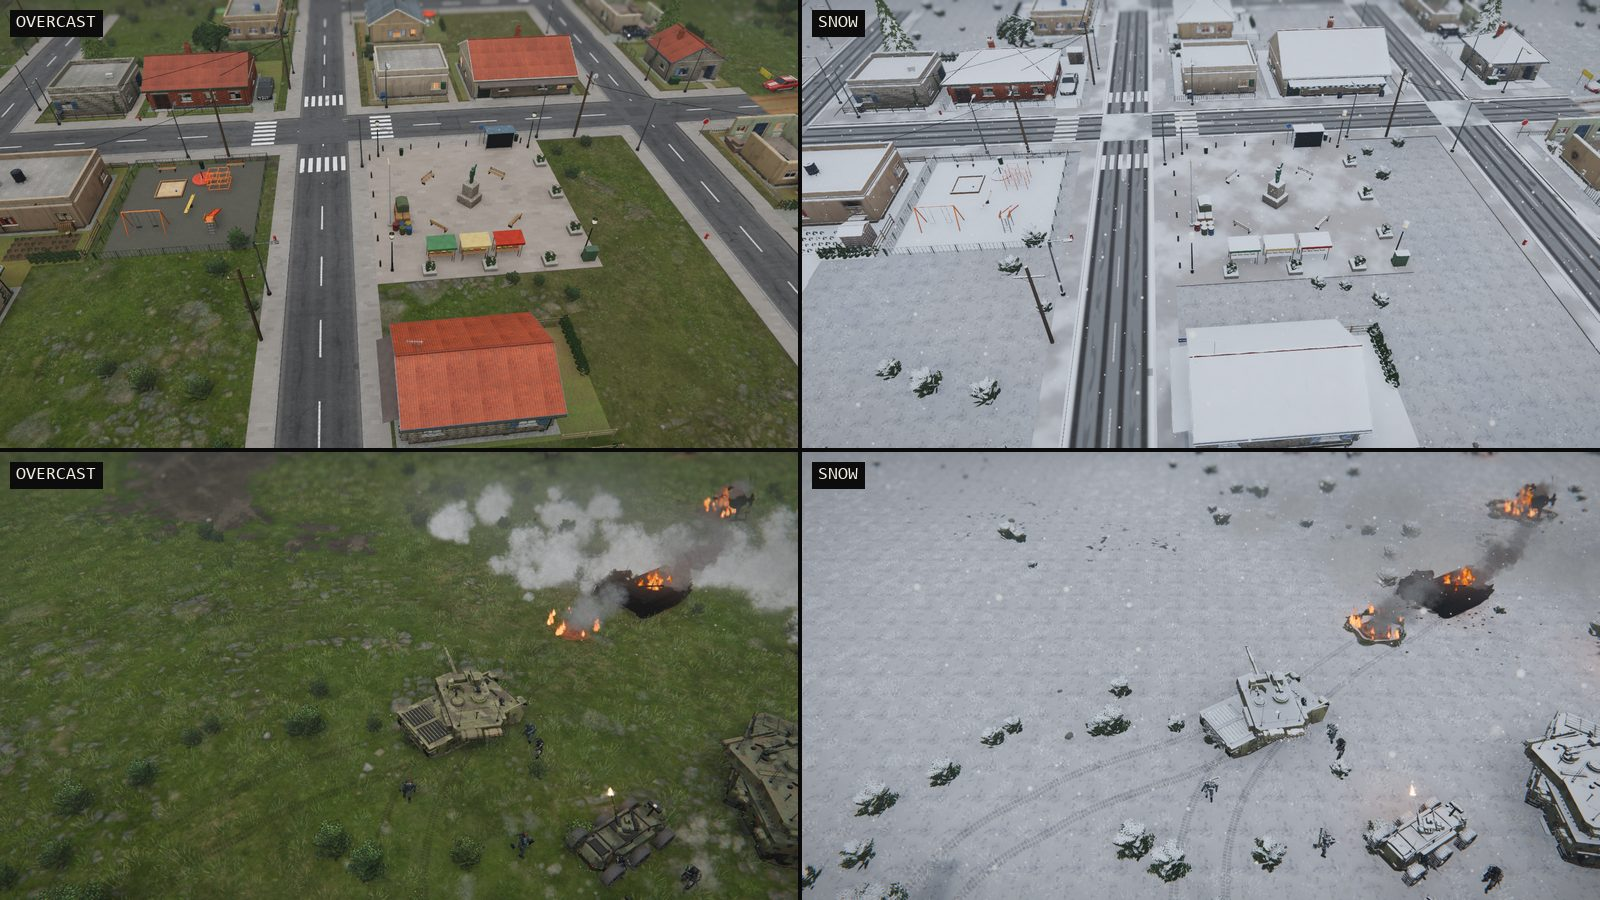
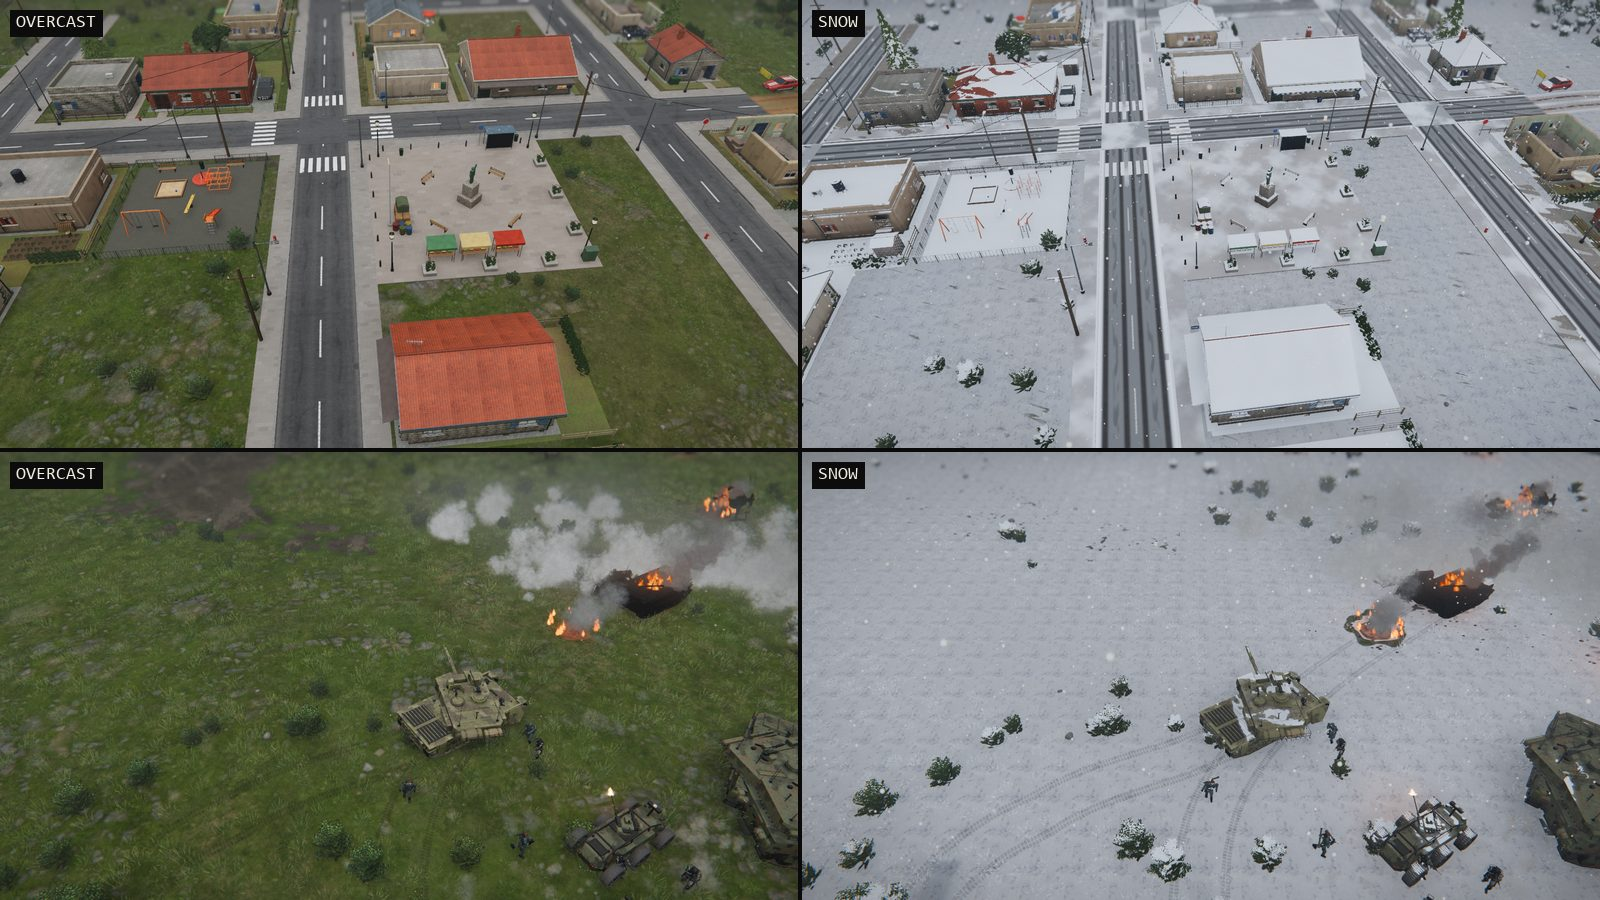
Break the snow up: patchy on vehicles, drifted everywhere else
Tanks were coated as evenly as roofs, and everything read as one even
blanket. Now:

- Vehicles keep snow only on their flat tops, in big patches of their own
  (a per-vehicle seed); it slides off the glacis and sides, and the warm
  engine deck stays bare and wet. Each carries its own amount (snow_k, set
  by Vehicle._snow_view): a full load gathers on one standing still, and
  driving or swinging the turret shakes most of it off, so a parked or
  wrecked hull is far whiter than one in the fight. Set in steps (fewer in
  the browser, where each value is a material copy).
- Surfaces: a noise threshold with crisp edges instead of a blend, drifts
  running with Fires.WIND, thin falls lying in the grooves of tiles and
  stone first, and neighbouring roofs and wrecks holding different amounts.
- Trees hold it in lumps on the boughs, one tree more than the next; bushes
  each their own; the grass is buried deep in drifts and hardly where the
  wind has scoured it; the ground is scoured in long streaks and on open
  rises and heaped in the hollows.

Changelog shots re-rendered, with a tank close-up added; the snow test
checks the carry ramp (Vehicle.snow_carry).

diff --git a/README.md b/README.md
@@ -23,7 +23,7 @@ Frontline is a real-time strategy game about modern infantry combat. You command
 
 Your soldiers take cover behind real walls and wrecks, keep their heads down under fire, drag their wounded to safety and throw enemy grenades back. Squads leapfrog forward one team at a time, clear houses room by room, set ambushes on the roads, and break and run when a fight goes badly. Tanks pop smoke when a missile is fired at them. Shellfire sets woods, hedgerows, roofs and cars alight, and the fire spreads with the wind and drives men out of their cover. Life goes on round the fighting: birds feed in the fields until the shooting sends them up, rats run along the walls in town, ducks paddle on the ponds and dolphins roll through the swell offshore. The towns look lived in, with curtains in the windows, flowers on the sills and pictures on the walls inside, and after dark lamps glow behind a third of the windows. Boats land raiding parties on the beach, and helicopters carry vehicles to the front on a cable. Helicopters fly like the real thing: the nose dips as they gather speed, they bank round turns, climb away from the pad and come down a glide path into a low hover, throwing up dust as they set down. Shot down, they spin in or autorotate to a crash.
 
-Grenades burst into dust and fast fragments, shells throw dense fans of earth and falling clods, and vehicle fuel burns in rolling fireballs. Animated smoke and dust catch the sun and spread across the ground. At night, illumination flares drift down under parachutes and tracers streak across the fighting. The Cinematic graphics preset adds a sky worked out from how sunlight scatters in the air, shadows thrown by fires and flares, sun shafts, lens flare, eye adaptation, a film look, heat haze shimmering over fires, wrecks and engines, and motion blur on rotors and flying debris. In the rain, vehicles, buildings and gear turn dark and glossy with water. Snow blankets the ground, roofs, hulls and trees, falls past the camera, and leaves churned mud wherever shells and tracks have been.
+Grenades burst into dust and fast fragments, shells throw dense fans of earth and falling clods, and vehicle fuel burns in rolling fireballs. Animated smoke and dust catch the sun and spread across the ground. At night, illumination flares drift down under parachutes and tracers streak across the fighting. The Cinematic graphics preset adds a sky worked out from how sunlight scatters in the air, shadows thrown by fires and flares, sun shafts, lens flare, eye adaptation, a film look, heat haze shimmering over fires, wrecks and engines, and motion blur on rotors and flying debris. In the rain, vehicles, buildings and gear turn dark and glossy with water. Snow falls past the camera and lies in wind-blown drifts over the ground, roofs and trees, gathers on parked tanks and is shaken off moving ones, and churns to mud wherever shells and tracks have been.
 
 You can play alone against the computer, team up with friends against it, or fight each other online. Desktop skirmishes offer 1,024, 2,048 and 3,072 metre square battlefields. Single-player simulation runs in its own local process so combat does not block drawing the battlefield. Seeded mountain belts, snowy peaks and mossy valleys surround towns, forests, roads and river crossings. Slopes shape movement and construction, and ridges screen troops from observation and fire. Larger maps need more memory; see the measured workloads in [simulation scaling](docs/SIMULATION_SCALING.md).
 

diff --git a/changelog/unreleased/snow.md b/changelog/unreleased/snow.md
@@ -8,14 +8,19 @@ file = "town-in-snow.jpg"
 caption = "A town in falling snow: white roofs and fields, slushy streets, trees heavy with snow and the mountains lost in the haze."
 
 [[screenshots]]
+file = "tank-in-snow.jpg"
+caption = "A tank that has been fighting carries snow only in patches on its flat tops: it has slid off the glacis and sides, the warm engine deck is bare and wet, and its colours show through."
+
+[[screenshots]]
 file = "comparison.jpg"
-caption = "The same town and the same tank battle under an overcast sky and in snow: white roofs and fields, slushy streets with white gutters, snow on the decks, tread marks through it and mud round the burning wreck."
+caption = "The same town and the same tank battle under an overcast sky and in snow: white roofs and fields, slushy streets with white gutters, patchy snow on the tanks that have been fighting, tread marks through it and mud round the burning wreck."
 +++
 
 - **Pick it** under Settings > Lighting & Look > Time of day & weather, in the menu's Time and weather row, or in photo mode. A random battle snows now and then, about one in twenty.
 - **The light** is flat and cold: a weak sun with barely any shadow, a pale blue-grey sky, and haze closing in.
 - **Snowflakes** drift down with the wind and flutter as they fall, staying put in the world as you pan through them.
 - **The ground** lies white on the flat and stays dark on steep slopes. Shell holes and the earth they throw up show as dark mud and grey slush, and tracks leave dark lines through it. Dirt roads become slush lanes between white verges; town streets keep black wheel paths and heaped white gutters.
-- **Everything standing in it** gathers snow on its upper faces: roofs, window ledges, tank decks, sandbags, camouflage nets, trench spoil, trees, bushes and grass. Vehicles shake some off, so their colours still show.
+- **Everything standing in it** gathers snow on its upper faces: roofs, window ledges, sandbags, camouflage nets, trench spoil, trees, bushes and grass. It never lies evenly: the wind scours streaks and open rises thin so the grass shows through, one roof holds more than the next, and trees hold it in lumps on their boughs.
+- **Vehicles** keep snow only on their flat tops (the deck, turret roof, fenders and stowage), in patches of their own; it slides off the glacis and sides, and the warm engine deck stays bare and wet. A vehicle standing still gathers a full load, and driving or swinging its turret shakes most of it off, so a parked or wrecked tank is far whiter than one in the fight.
 - Snow that starts mid-battle settles over a few minutes and thaws slowly when it stops. The deep snow muffles the wind and the distant battle.
 - It's looks only: nothing sees, moves or burns any differently in snow. It works in the browser too.

diff --git a/docs/FEATURES.md b/docs/FEATURES.md
@@ -1267,10 +1267,16 @@ av.gd`, `hnav.gd`, `terrain.gd`, `squad.gd`)
   the steep; shell holes and their thrown earth, and wet spots in a bog, show as dark mud flecked with grey slush, and
   the tracks' prints run dark through it. Dirt roads become a lane of slush between white verges with the ruts open
   to the mud; town streets keep black wheel paths, grey slush between them and white gutters. Everything standing
-  in it gathers snow on the faces turned to the sky (roofs, ledges, hulls and decks, sandbags, camouflage nets,
-  trench spoil, the tops of trees, bushes and the grass, which goes to winter straw with only its tips showing),
-  broken by drifts, while walls and the sides of hulls stay bare. Vehicles shed some of it, so their paint shows
-  through in patches; running gear, glass, charred hulls and floors indoors take none, and men only a dusting. A
+  in it gathers snow on the faces turned to the sky (roofs, ledges, sandbags, camouflage nets, trench spoil, the
+  tops of trees and bushes, and the grass, which goes to winter straw with only its tips showing), while walls stay
+  bare. It never lies as an even coat: the wind scours long streaks and the open rises thin, so the grass shows
+  through, and heaps drifts in the hollows; on a roof or a wall top a thin fall lies in the grooves first, one roof
+  holds more than the next, and trees hold it in lumps on their boughs, one tree more than its neighbour. A vehicle
+  (`Vehicle._snow_view`, the `snow_k` instance value) keeps it only on its flat tops (deck, turret roof, fenders,
+  stowage), in patches of its own, while the glacis and sides shed it and the warm engine deck stays bare and wet;
+  standing still it gathers a full load, and driving or swinging its turret shakes most of it off, faster the
+  faster it goes, so a parked or wrecked hull carries far more than one in the fight. Running gear, glass, charred
+  hulls and floors indoors take none, and men only a dusting. A
   battle that opens in snow starts covered; snow that sets in mid-battle settles over four minutes, in the hollows
   first, and thaws over a quarter of an hour. The deep snow hushes the wind and the distant battle. A random
   battle's weather is snow about one time in twenty (a second draw from the seed, so no other seed's weather
